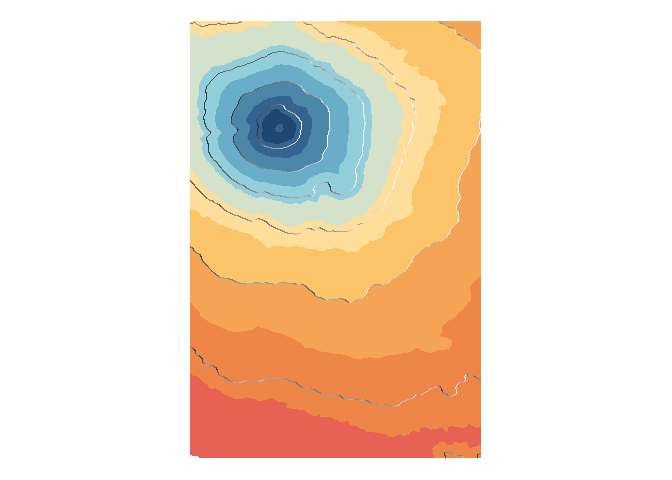
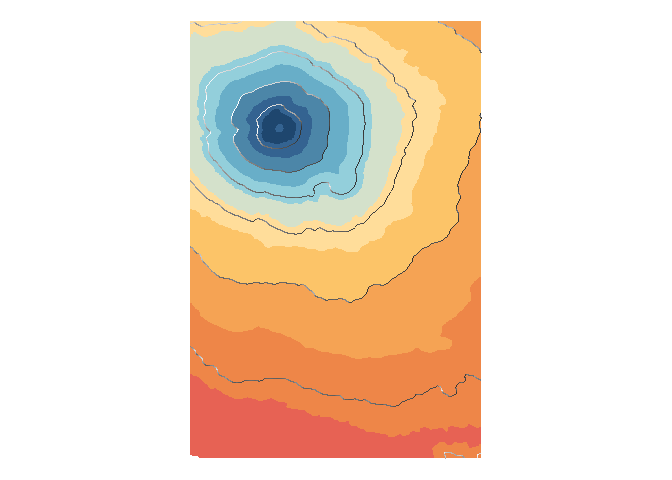
Recreated Fuji contours

diff --git a/Fuji/README.md b/Fuji/README.md
@@ -72,8 +72,8 @@ ggplot(data = fuji,
   geom_contour_filled(breaks = seq(600, 
                                    3900, 
                                    300)) +
-  geom_contour_tanaka(sun.angle = 260, 
-                      smooth = 10) + 
+  geom_contour_tanaka(sun.angle = 60, 
+                      smooth = 10) +  
   scale_fill_manual(values = cols) +
   coord_equal() + 
   theme_void() + 
